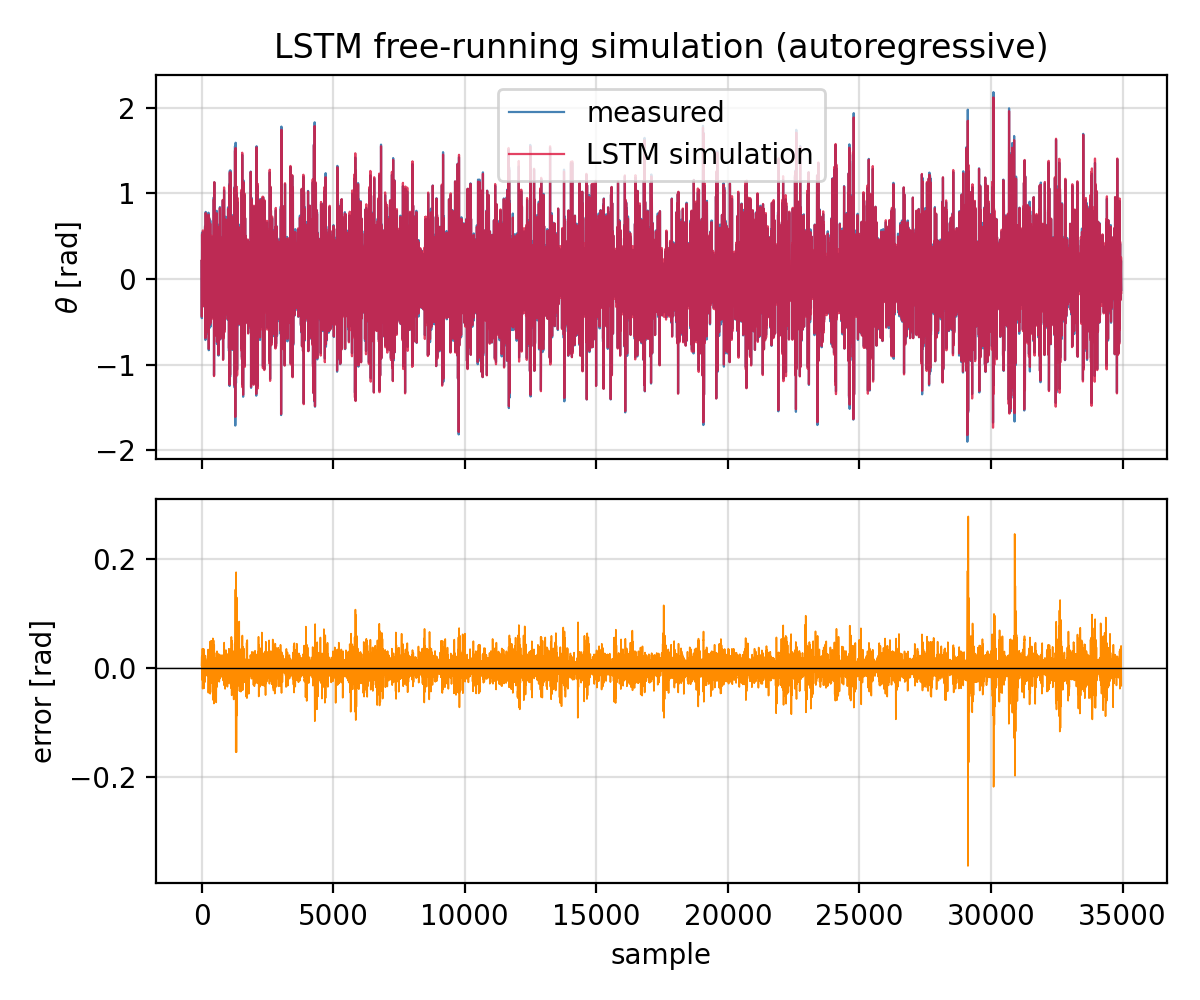
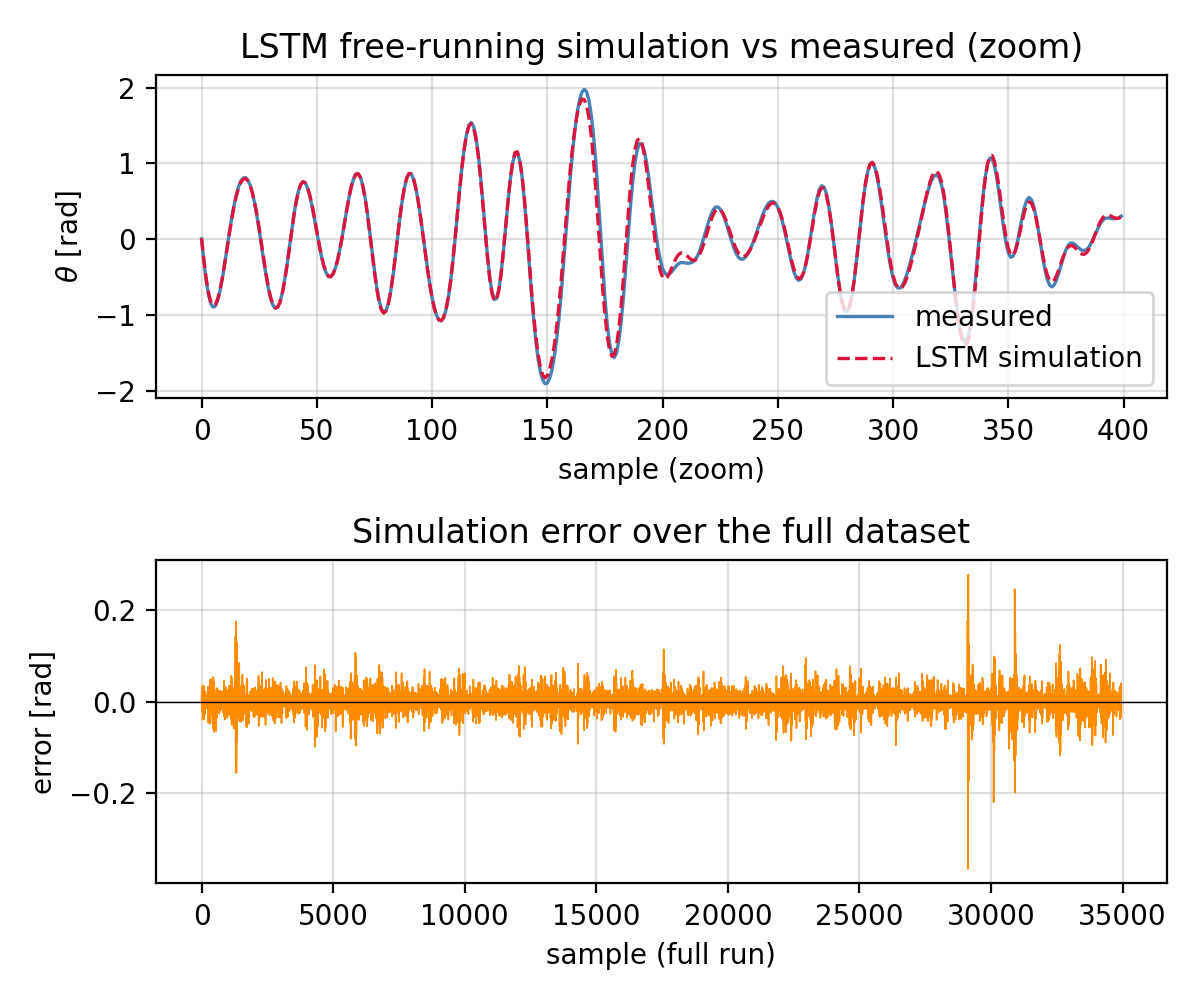
Zoom simulation plot into the peak-error window for visibility
At full 35k-sample scale the simulated trace fully occludes the
measured one (the model tracks that closely). Zoomed into the window
around the largest simulation error instead so both lines are visible.

diff --git a/advanced_ann.py b/advanced_ann.py
@@ -176,17 +176,22 @@ print(f'RMSE : {rmse_sim:.5f} rad  ({rmse_sim/(2*np.pi)*360:.3f}°)  NRMS: {rmse
 print(f'Linear ARX baseline: 0.255 rad')
 print(f'Good NN target:      0.02710 rad\n')
 
-# ── Plot: free-running simulation vs measured, plus error ─────────────────────
-fig, axes = plt.subplots(2, 1, figsize=(6, 5), sharex=True)
-axes[0].plot(th_raw[SKIP:], label='measured', color='steelblue', linewidth=0.8)
-axes[0].plot(th_sim[SKIP:], label='LSTM simulation', color='crimson', linewidth=0.8, alpha=0.8)
-axes[0].set_ylabel(r'$\theta$ [rad]'); axes[0].legend(); axes[0].grid(True, alpha=0.4)
-axes[0].set_title('LSTM free-running simulation (autoregressive)')
+# ── Plot: free-running simulation vs measured (zoom), plus error (full range) ──
+th_raw_sim = th_raw[SKIP:]
+err_full   = th_sim[SKIP:] - th_raw_sim
+sim_zoom   = slice(28950, 29350)  # window around the peak simulation error
 
-err = th_sim[SKIP:] - th_raw[SKIP:]
-axes[1].plot(err, color='darkorange', linewidth=0.6)
+fig, axes = plt.subplots(2, 1, figsize=(6, 5))
+axes[0].plot(th_raw_sim[sim_zoom], label='measured', color='steelblue', linewidth=1.2)
+axes[0].plot(th_sim[SKIP:][sim_zoom], label='LSTM simulation', color='crimson', ls='--', linewidth=1.2)
+axes[0].set_ylabel(r'$\theta$ [rad]'); axes[0].set_xlabel('sample (zoom)')
+axes[0].legend(); axes[0].grid(True, alpha=0.4)
+axes[0].set_title('LSTM free-running simulation vs measured (zoom)')
+
+axes[1].plot(err_full, color='darkorange', linewidth=0.6)
 axes[1].axhline(0, color='k', linewidth=0.5)
-axes[1].set_ylabel('error [rad]'); axes[1].set_xlabel('sample')
+axes[1].set_ylabel('error [rad]'); axes[1].set_xlabel('sample (full run)')
+axes[1].set_title('Simulation error over the full dataset')
 axes[1].grid(True, alpha=0.4)
 plt.tight_layout()
 plt.savefig(os.path.join(FIG_DIR, 'LSTM_simulation.png'), dpi=200)